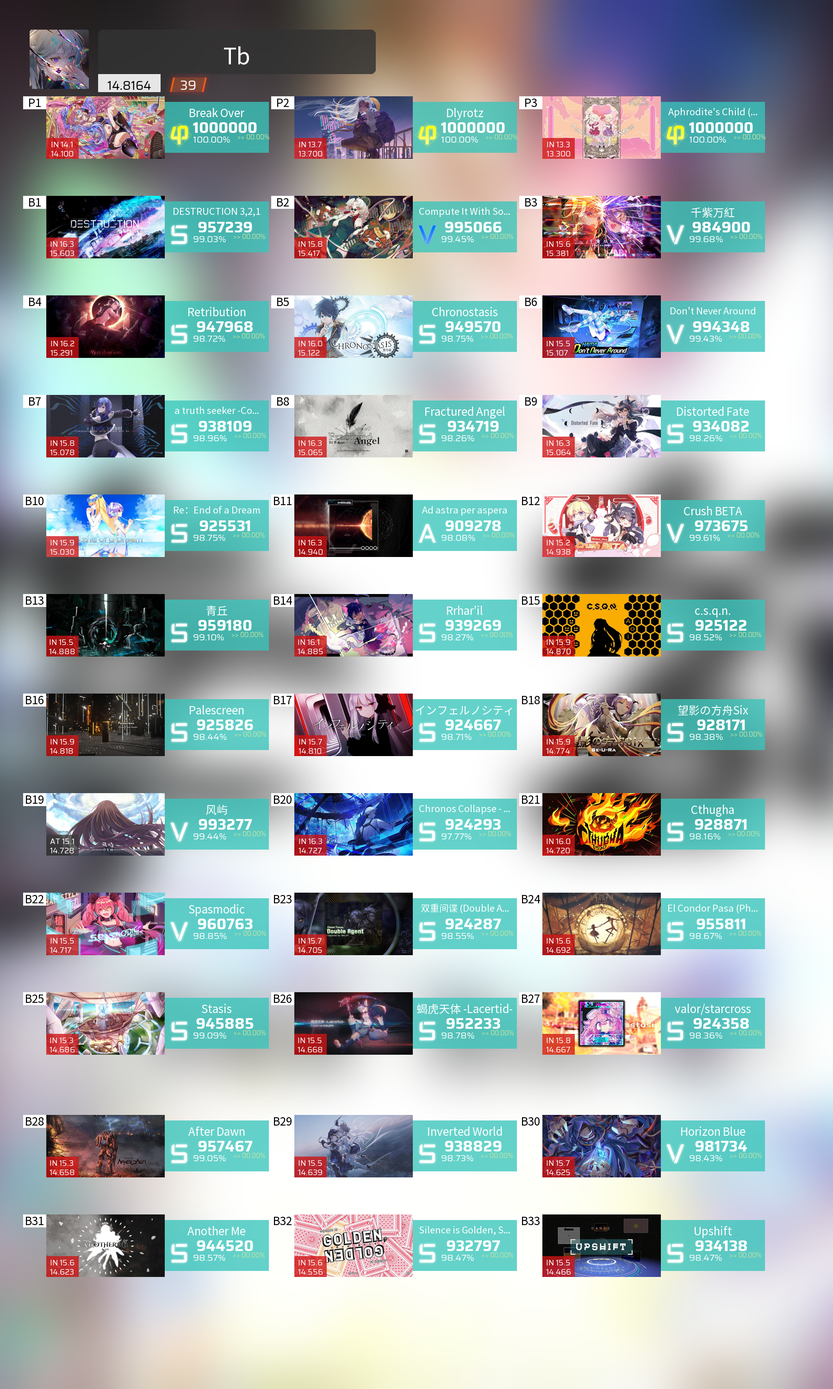
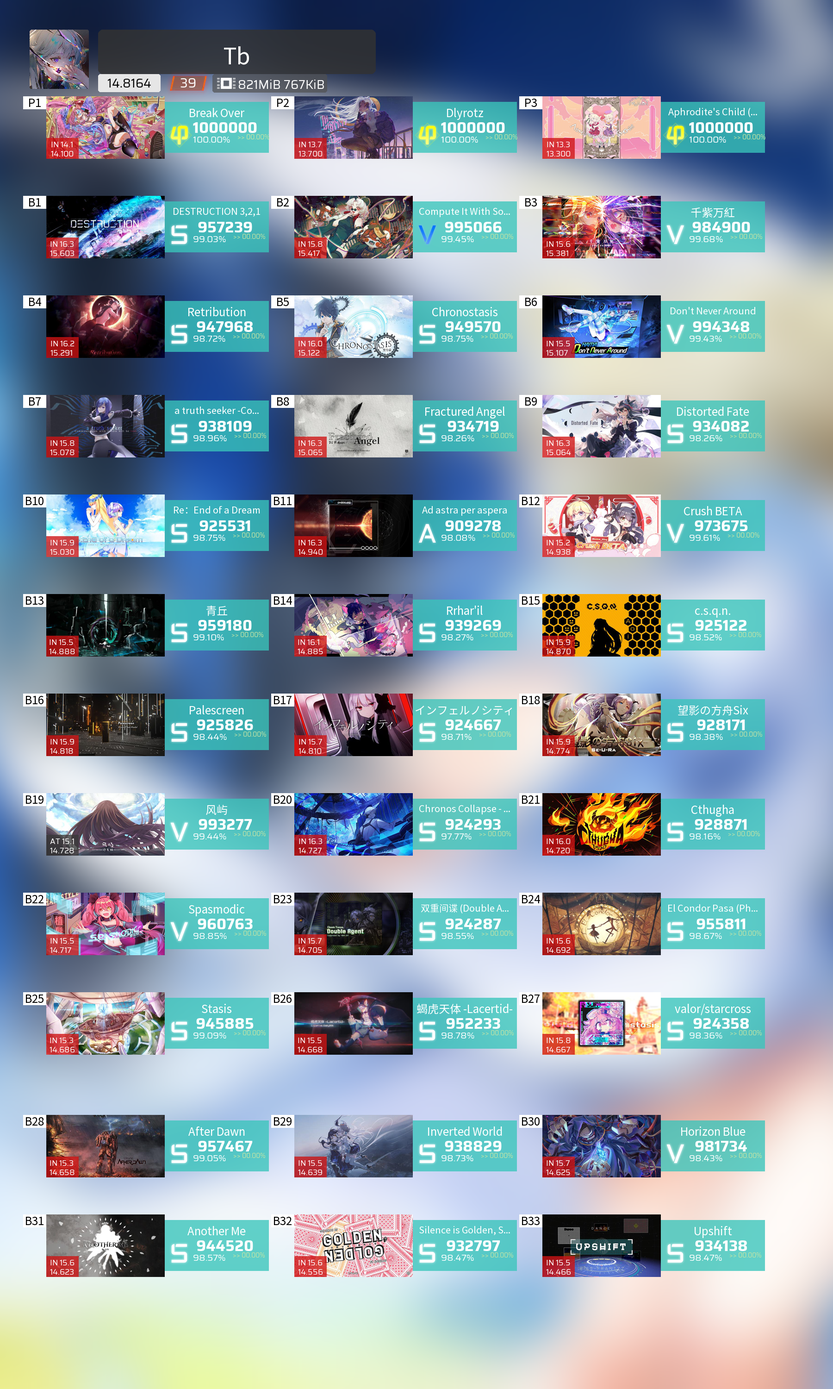
加入DATA显示

diff --git a/main.py b/main.py
@@ -57,7 +57,7 @@ INFO_BLOCK_COLOR = (57, 197, 187)
 NEXT_COLOR = (196, 228, 164)
 WHITE = (255, 255, 255)
 
-def createImage(a_path, output_path, target_size, blur_radius, avatar, b27, username, rks, challengeModeRank):
+def createImage(a_path, output_path, target_size, blur_radius, avatar, b27, username, rks, challengeModeRank, data):
     # 初始化基础图像
     original_img = Image.open(a_path).convert('RGB')
     original_width, original_height = original_img.size
@@ -100,7 +100,8 @@ def createImage(a_path, output_path, target_size, blur_radius, avatar, b27, user
         'username': ImageFont.truetype("Resource/SourceHanSansCN-Regular.ttf", 48),
         'rks': ImageFont.truetype("Resource/Saira-Regular.ttf", 26),
         'song_name_bigger': ImageFont.truetype("Resource/SourceHanSansCN-Regular.ttf", 24),
-        'challenge_rank': ImageFont.truetype("Resource/Saira-Regular.ttf", 28)
+        'challenge_rank': ImageFont.truetype("Resource/Saira-Regular.ttf", 28),
+        'data': ImageFont.truetype("Resource/Saira-Regular.ttf", 26),
     }
        
     # --- 新增：在头像右侧绘制用户名文本框 ---
@@ -176,20 +177,20 @@ def createImage(a_path, output_path, target_size, blur_radius, avatar, b27, user
         final_img,
         (rks_x, rks_y),
         (rks_bg_width, rks_bg_height),
-        radius=0,  # 圆角半径
+        radius=5,  # 圆角半径
         color=(230,230,230),
         alpha=255  # 不透明
     )
     
     # 绘制RKS文本（居中）
     draw.text(
-        (rks_x + (rks_bg_width - rks_bbox[2]) // 2, rks_y + (rks_bg_height - rks_bbox[3]) // 2),
+        (rks_x + (rks_bg_width - rks_bbox[2]) // 2, rks_y + (rks_bg_height - rks_bbox[3]) // 2 - 5),
         rks_text,
         fill=(0, 0, 0),  # 黑色文字
         font=rks_font
     )
     
-    challenge_rank = summary['challengeModeRank']
+    challenge_rank = challengeModeRank
     rank_tier = challenge_rank // 100
     rank_number = challenge_rank % 100
 
@@ -211,7 +212,7 @@ def createImage(a_path, output_path, target_size, blur_radius, avatar, b27, user
         
         # 图标位置（RKS框右侧+10px间距）
         icon_x = rks_x + rks_bg_width + 10
-        icon_y = rks_y-7
+        icon_y = rks_y-10
         
         # 粘贴图标
         final_img.paste(icon, (icon_x, icon_y), icon)
@@ -222,14 +223,62 @@ def createImage(a_path, output_path, target_size, blur_radius, avatar, b27, user
         
         draw.text(
             (icon_x + (icon_size[0] - rank_bbox[2]) // 2, 
-            icon_y + (icon_size[1] - rank_bbox[3]) // 2-5),
+            icon_y + (icon_size[1] - rank_bbox[3]) // 2-7),
             str(rank_number),
             fill=WHITE,
             font=rank_font
         )
     except Exception as e:
         print(f"Failed to load challenge rank icon: {e}")
+    data_font = FONT_CONFIG['data']
+
+    # 1. 计算数据框宽度（动态调整）
+    data_icon = Image.open("Resource/data.png").convert('RGBA')
+    data_icon_size = (30, 30)  # 数据图标大小
+    data_icon = data_icon.resize(data_icon_size, Image.LANCZOS)
+
+    data_text_width = draw.textlength(data, font=data_font)
+    data_box_width = data_icon_size[0] + 10 + int(data_text_width) + 25  # 图标+间距+文字+边距
+    data_box_height = 40  # 与挑战模式图标同高
+
+    # 2. 绘制半透明背景（70%透明度）
+    data_box_pos = (icon_x - data_box_width +350, icon_y+10)  # 挑战模式图标左侧-10px
+    final_img = add_rounded_rectangle(
+        final_img,
+        data_box_pos,
+        (data_box_width, data_box_height),
+        radius=5,
+        color=(80, 80, 80),  # 深灰色背景
+        alpha=int(255 * 0.7)  # 70%透明度
+    )
+
+    # 3. 粘贴数据图标（左侧居中）
+    data_icon = Image.open("Resource/data.png").convert('RGBA')
+    original_width, original_height = data_icon.size  # 原始尺寸 20x12
     
+    # 计算等比缩放后的新尺寸（高度固定为数据框高度-8px=32px）
+    new_height = 24  # 略小于数据框高度以留出边距
+    new_width = int(original_width * (new_height / original_height))  # 20*(32/12)=53
+    
+    data_icon = data_icon.resize((new_width, new_height), Image.LANCZOS)
+    
+    # 图标位置（左侧居中，距离左边框10px）
+    data_icon_x = data_box_pos[0] + 10
+    data_icon_y = data_box_pos[1] + (data_box_height - new_height) // 2
+    final_img.paste(data_icon, (data_icon_x, data_icon_y), data_icon)
+    
+    # 调整数据文本起始位置（图标右侧+10px）
+    data_text_x = data_icon_x + new_width + 10
+
+    # 4. 绘制数据文本（右侧居中）
+    data_text_x = data_icon_x + data_icon_size[0] + 15
+    data_text_y = data_box_pos[1] + (data_box_height - data_font.size) // 2 -5
+    draw.text(
+        (data_text_x, data_text_y),
+        data,
+        fill=WHITE,
+        font=data_font
+    )
     # 布局参数
     start_y = 128 + 80  # 增加头像下方间距
     cell_width = 256 + 180 + 50
@@ -566,11 +615,13 @@ print('RKS: ', summary['rankingScore'])
 print('GameVersion: ', summary['gameVersion'])
 print('Avatar: ', user['avatar'])
 print('Data: ', end='')
-if data[4]: print(f'{data[4]}PiB {data[3]}TiB {data[2]}GiB {data[1]}MiB {data[0]}KiB') 
-elif data[3]: print(f'{data[3]}TiB {data[2]}GiB {data[1]}MiB {data[0]}KiB') 
-elif data[2]: print(f'{data[2]}GiB {data[1]}MiB {data[0]}KiB') 
-elif data[1]: print(f'{data[1]}MiB {data[0]}KiB') 
-else: print(f'{data[0]}KiB') 
+data_num = ''
+if data[4]:   data_num=f'{data[4]}PiB {data[3]}TiB {data[2]}GiB {data[1]}MiB {data[0]}KiB'
+elif data[3]: data_num=f'{data[3]}TiB {data[2]}GiB {data[1]}MiB {data[0]}KiB'
+elif data[2]: data_num=f'{data[2]}GiB {data[1]}MiB {data[0]}KiB'
+elif data[1]: data_num=f'{data[1]}MiB {data[0]}KiB'
+else: f'{data[0]}KiB'
+print(data_num)
 print('/    EZ   HD   IN   AT')
 print(f'C   {progress[0]: 3d} {progress[3]: 3d} {progress[6]: 3d} {progress[9]: 3d} ')
 print(f'FC  {progress[1]: 3d} {progress[4]: 3d} {progress[7]: 3d} {progress[10]: 3d} ')
@@ -611,5 +662,6 @@ createImage(
     b27=b27,
     username=nickname,
     rks=round(summary['rankingScore'],4),
-    challengeModeRank=summary['challengeModeRank']
+    challengeModeRank=summary['challengeModeRank'],
+    data=data_num
 )
